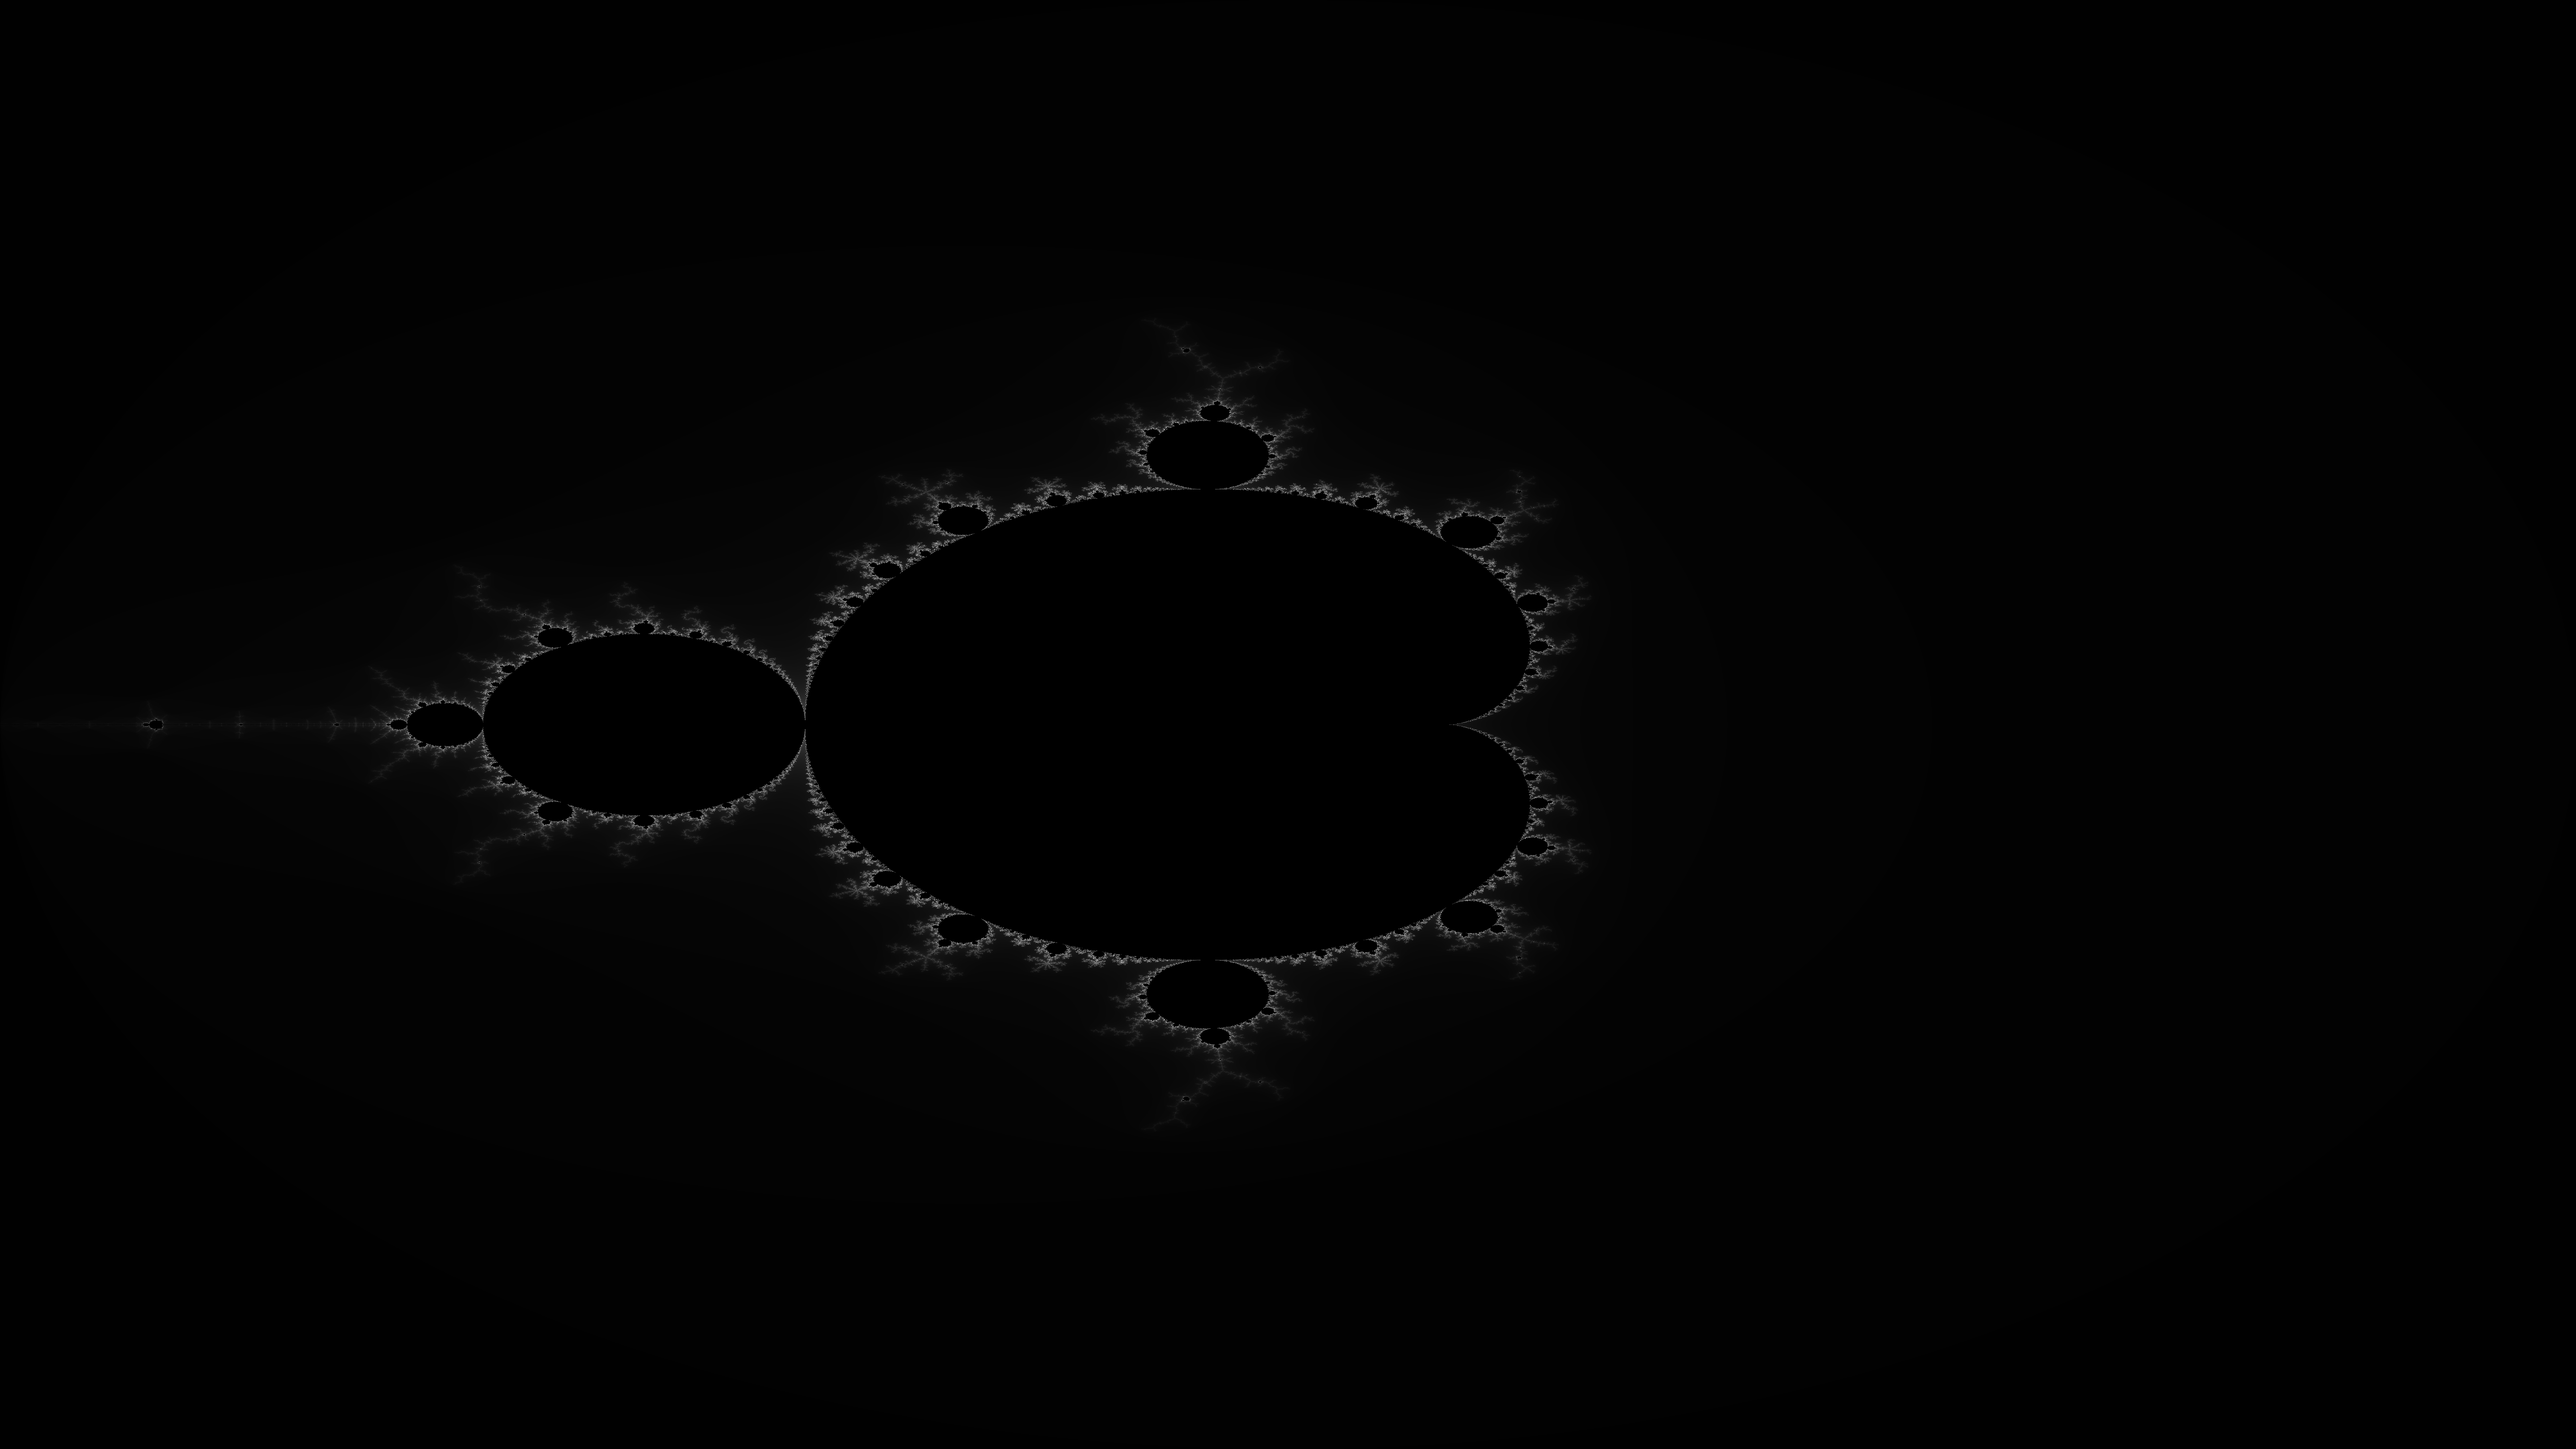
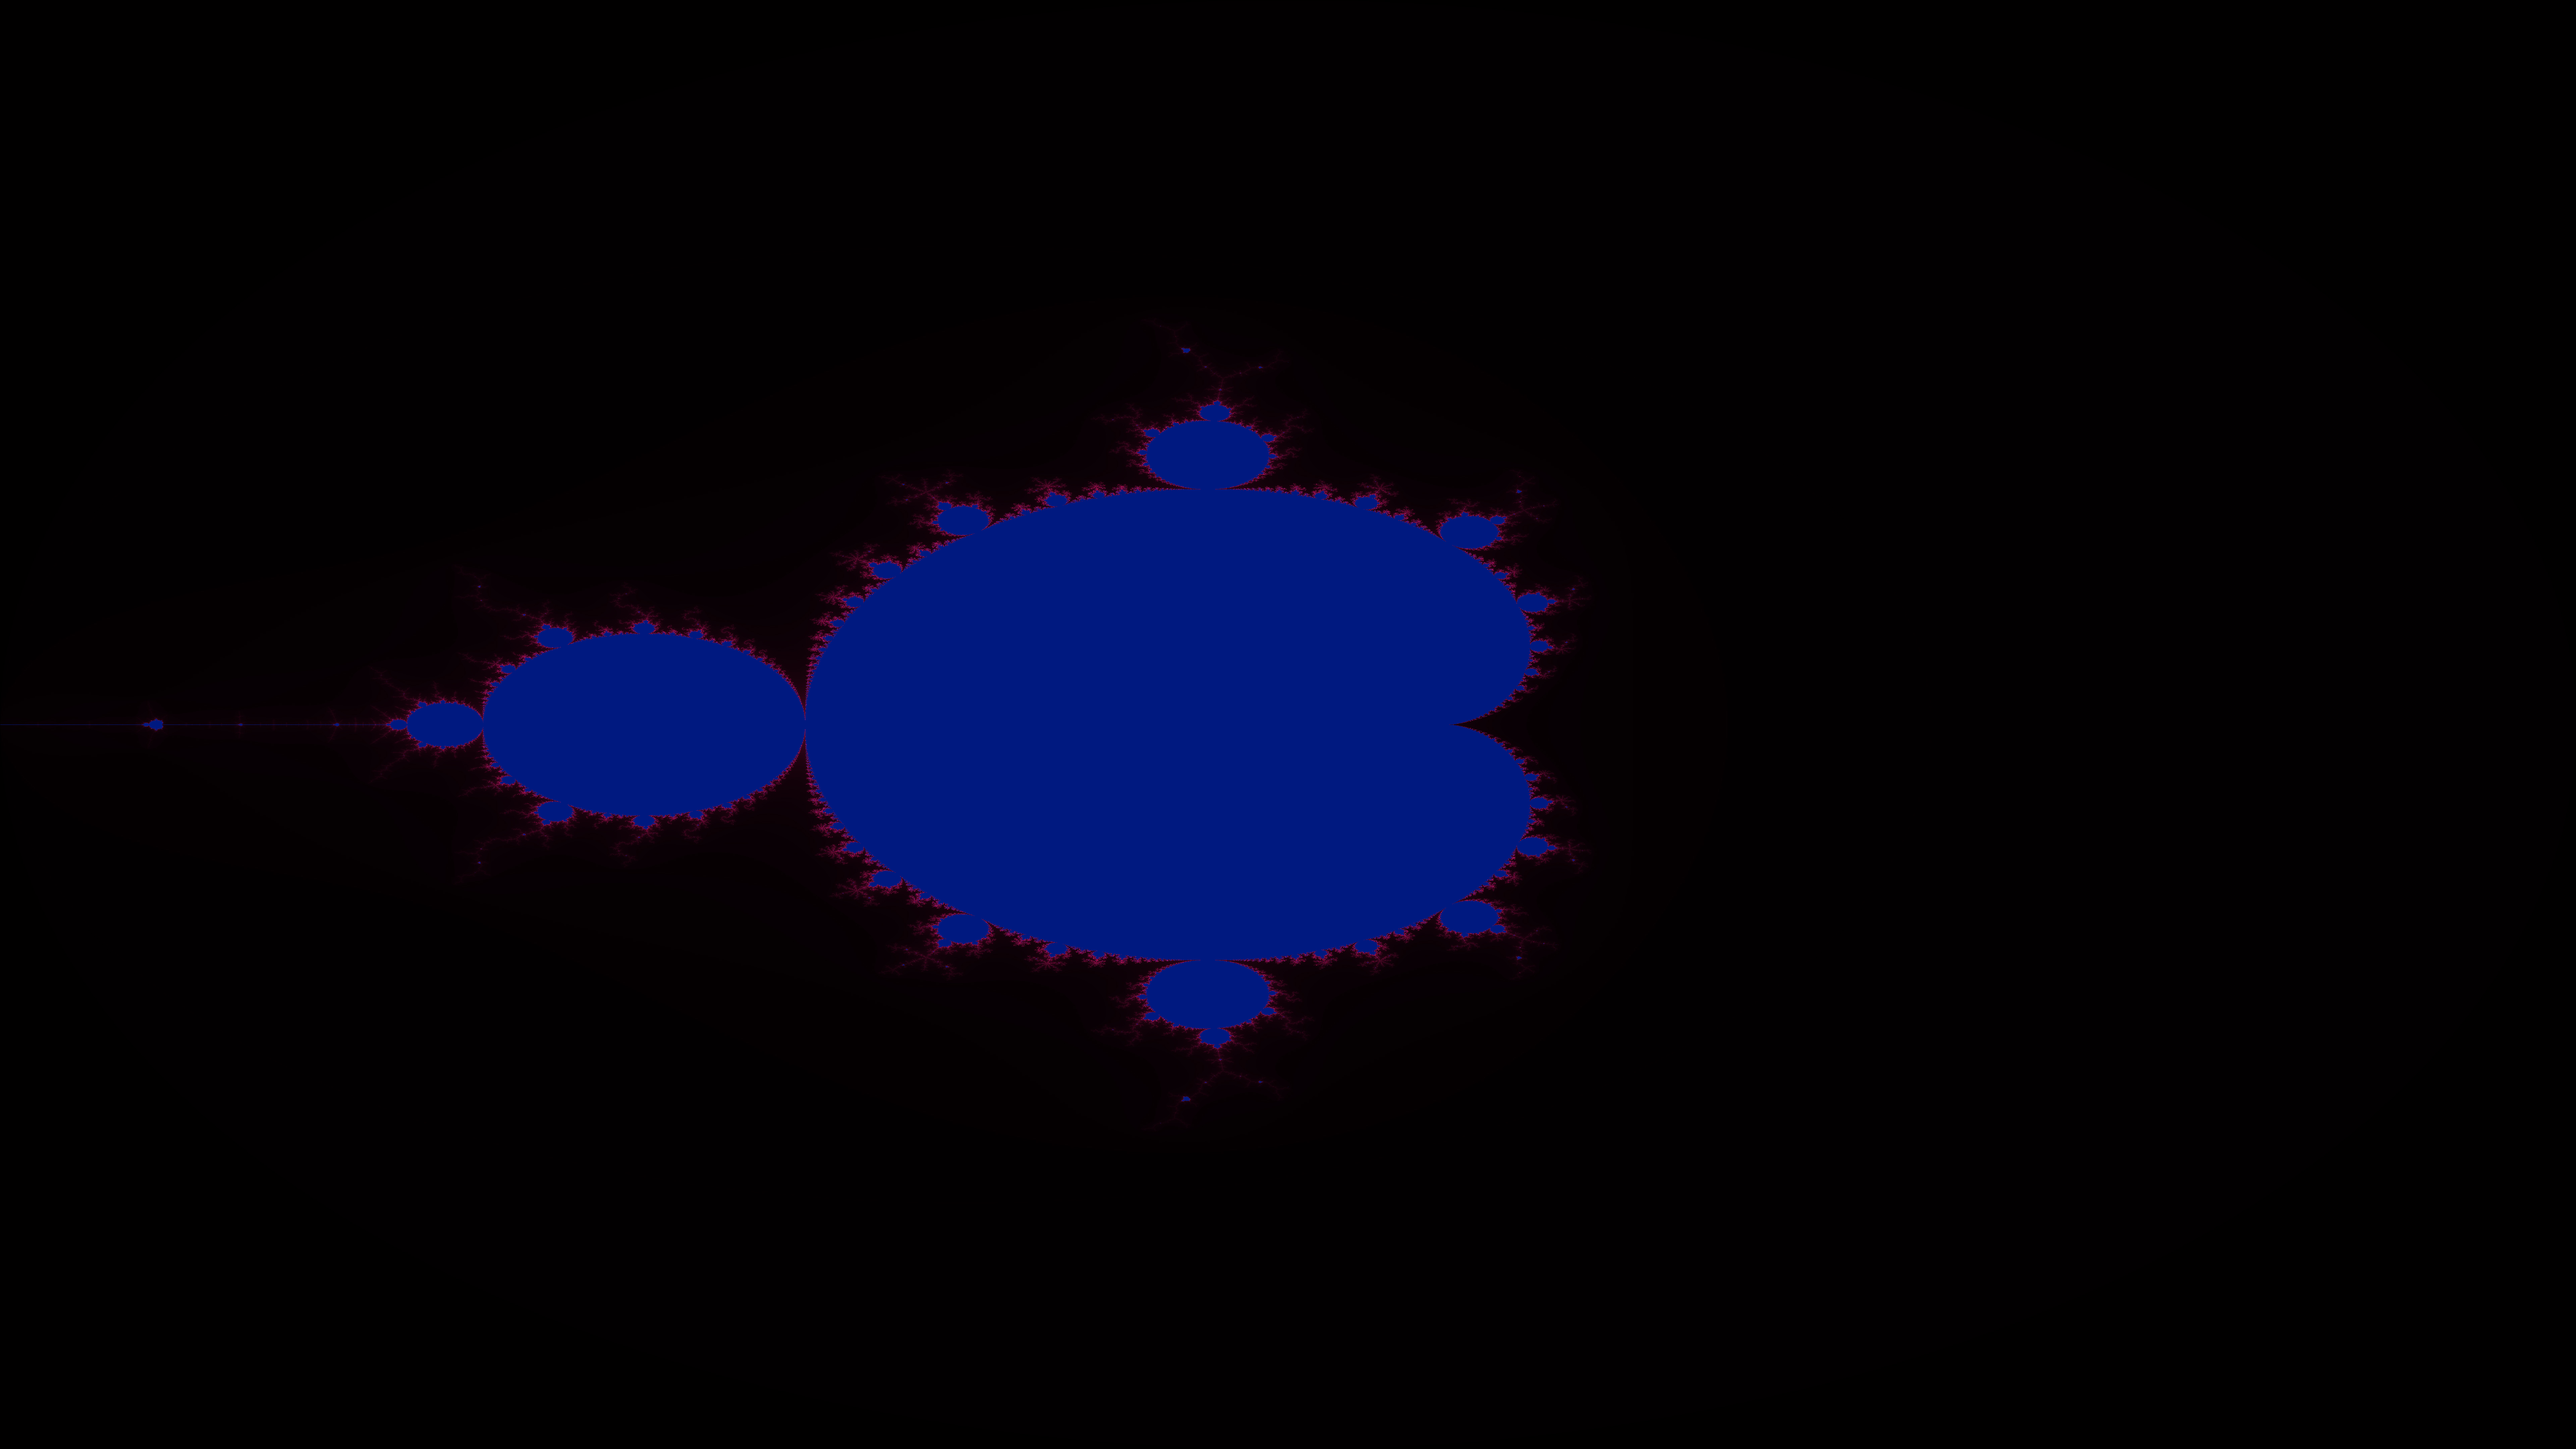
img

Changed region(s): [[0.1562, 0.25, 0.625, 0.75]]

diff --git a/trabalho/mand.c b/trabalho/mand.c
@@ -23,11 +23,11 @@ void mand(unsigned char *output){
                 zx = tmp;
                 iter++;
             }
-            output[(y * WIDTH + x)*3] = iter;
-            output[(y * WIDTH + x)*3+1] = iter;
-            output[(y * WIDTH + x)*3+2] = iter;
-        }
-        
+            
+            output[(y * WIDTH + x)*3] = iter;     // R
+            output[(y * WIDTH + x)*3+1] = iter/10;   // G
+            output[(y * WIDTH + x)*3+2] = iter/2;   // B
+        } 
     }
 }
 
